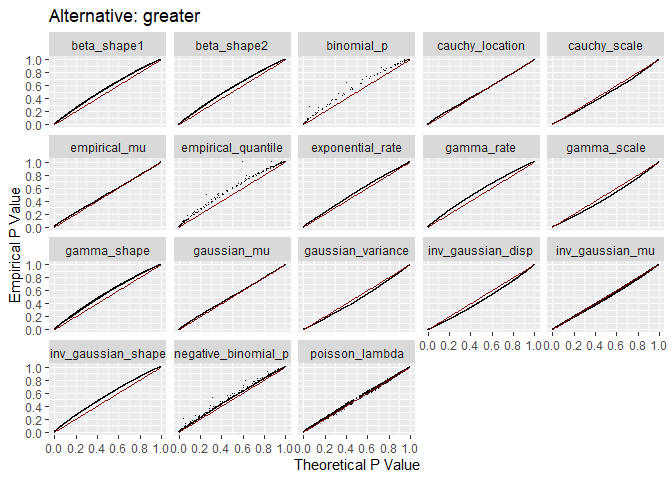
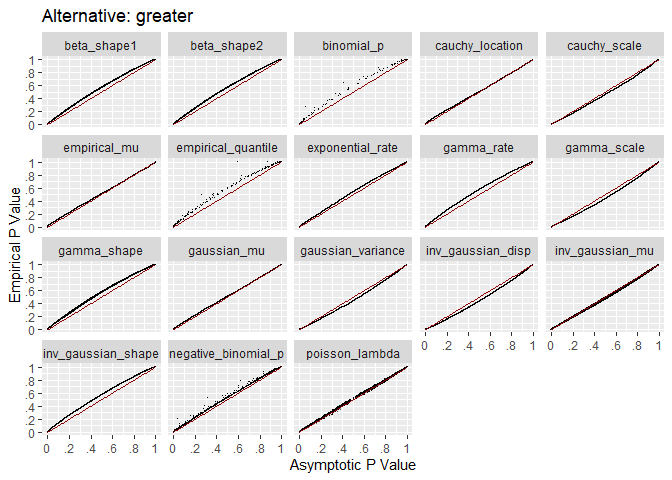
Proof read readme

diff --git a/README.md b/README.md
@@ -11,13 +11,13 @@ identify a sample size such that the approximation becomes good enough.
 
 Definitions:
 
-- Theoretical p value - p value based on asymptotic $\chi^2$
+- Asymptotic p value - p value based on the asymptotic $\chi^2$
   approximation.
 - Empirical p value - proportion of p values as extreme or more extreme
-  than the theoretical p value.
+  than the asymptotic p value.
 
-If the $\chi^2$ approximation is exact, the theoretical p value will
-match the empirical p value exactly. Visually, all dots fall on the read
+If the $\chi^2$ approximation is exact, the asymptotic p value will
+match the empirical p value exactly. Visually, all dots fall on the red
 line.
 
 <img src="man/figures/README-exampleCalib-1.png" width="100%" />
@@ -32,22 +32,22 @@ correlation between the two p value calculations.
 For each test:
 
 - Generate data from distribution.
-- Call hypothesis testing function and get theoretical p value.
-- Compare each iteration’s theoretical p value to all other theoretical
-  p values to calculate an empirical p value.
+- Call hypothesis testing function and get asymptotic p value.
+- Compare each iteration’s asymptotic p value to all other asymptotic p
+  values to calculate an empirical p value.
 
-N is increased and the process is repeated until calibration is good
-between the two p values.
+Sample size is increased and the process is repeated until calibration
+is good between the two p values.
 
 # One Sample Calibration
 
-Ideally, calibration is good across the entire range of theoretical p
+Ideally, calibration is good across the entire range of asymptotic p
 value. What is critical is calibration at .20 and less. Almost no one
 sets $\alpha$ above .20 when testing.
 
 For all three alternative hypotheses, dots are near the red line for
-theoretical p values below .20. Most tests are well calibrated over the
-entire range of theoretical p values.
+asymptotic p values below .20. Most tests are well calibrated over the
+entire range of asymptotic p values.
 
 <img src="man/figures/README-oneCalibTwo-1.png" width="100%" />
 
